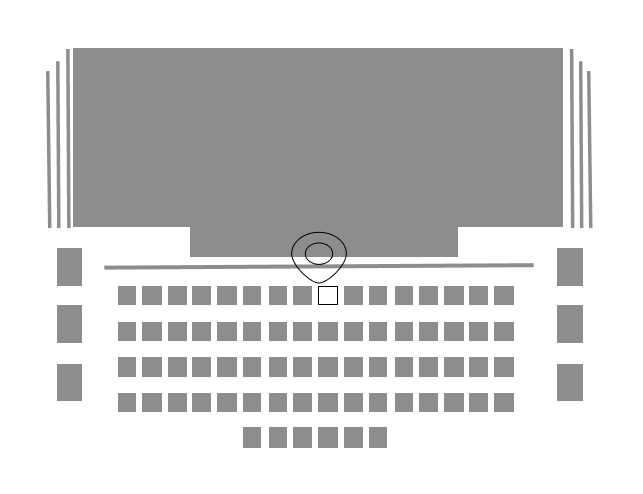
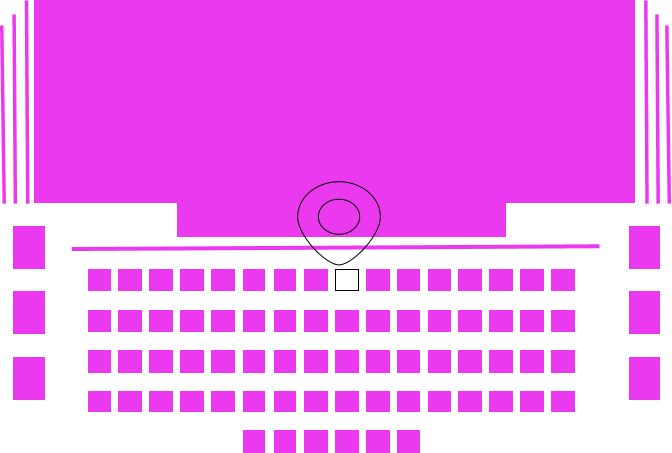
cambios img

diff --git a/src/style.css b/src/style.css
@@ -78,6 +78,15 @@
   transition: background-color 0.3s;
   border: 1px solid rgb(141, 137, 137);
   color: white;
+  position: relative;
+}
+
+.seat .seat-id {
+  position: absolute;
+  top: 50%;
+  left: 50%;
+  transform: translate(-50%, -50%);
+  white-space: nowrap; 
 }
 
 /*Estado disponible*/
@@ -87,7 +96,7 @@
 
 /*Estado no disponible*/
 .seat.unavailable {
-  background-color: #4781FF;
+  background-color: #EB39EF;
   border: 0;
 }
 
@@ -125,7 +134,7 @@
   width: 700px;
   /* Ajuste el ancho según sea necesario */
   height: 200px;
-  background-color: rgb(139, 134, 134);
+  background-color: #EB39EF;
   margin-bottom: 20px;
   border-radius: 1px;
   margin: 60px;
@@ -134,7 +143,7 @@
 
 .line {
   position: absolute;
-  background-color: rgb(139, 134, 134);
+  background-color: #EB39EF;
   width: 5px;
 }
 
@@ -183,7 +192,7 @@
 
 .square_left {
   position: absolute;
-  background-color: rgb(139, 134, 134);
+  background-color: #EB39EF;
   width: 30px;
   height: 30px;
   bottom: -45px;
@@ -192,7 +201,7 @@
 
 .square2_left {
   position: absolute;
-  background-color: rgb(139, 134, 134);
+  background-color: #EB39EF;
   width: 30px;
   height: 30px;
   bottom: -90px;
@@ -201,7 +210,7 @@
 
 .square3_left {
   position: absolute;
-  background-color: rgb(139, 134, 134);
+  background-color: #EB39EF;
   width: 30px;
   height: 30px;
   bottom: -135px;
@@ -211,7 +220,7 @@
 
 .square_right {
   position: absolute;
-  background-color: rgb(139, 134, 134);
+  background-color: #EB39EF;
   width: 30px;
   height: 30px;
   bottom: -45px;
@@ -220,7 +229,7 @@
 
 .square2_right {
   position: absolute;
-  background-color: rgb(139, 134, 134);
+  background-color: #EB39EF;
   width: 30px;
   height: 30px;
   bottom: -90px;
@@ -229,7 +238,7 @@
 
 .square3_right {
   position: absolute;
-  background-color: rgb(139, 134, 134);
+  background-color: #EB39EF;
   width: 30px;
   height: 30px;
   bottom: -135px;
@@ -238,7 +247,7 @@
 
 .base-line {
   position: absolute;
-  background-color: rgb(139, 134, 134);
+  background-color: #EB39EF;
   width: 620px;
   height: 6px;
   bottom: -40px;
@@ -248,7 +257,7 @@
 
 .bottom-rect {
   position: absolute;
-  background-color: rgb(139, 134, 134);
+  background-color: #EB39EF;
   width: 350px;
   height: 50px;
   bottom: -30px;
@@ -285,7 +294,7 @@
 }
 
 .diisnot {
-  background-color: #4781FF;
+  background-color: #EB39EF;
 }
 
 .ocup {
@@ -368,7 +377,7 @@
 .trapecio {
   min-width: 600px;
   height: 260px;
-  background-color: gray;
+  background-color: #EB39EF;
   clip-path: polygon(0% 0%, 100% 0%, 82% 100%, 18% 100%);
   position: relative;
 }
@@ -376,7 +385,7 @@
 .row-flex{
   display: flex;
   justify-content: center;
-  align-items: center;
+  align-items: flex-end;
 }
 
 .seatscenter {
@@ -391,7 +400,7 @@
 /* indice */
 .indice {
   max-width: 400px;
-  border: 1px solid grey;
+  border: 1px solid #EB39EF;
   border-radius: 10px;
 }
 
@@ -418,7 +427,7 @@
 .scenario-square{
   min-width: 500px;
   height: 230px;
-  background-color: gray;
+  background-color: #EB39EF;
   margin: 0px 7px;
 }
 

diff --git a/src/Components/Scenary4/index.js b/src/Components/Scenary4/index.js
@@ -3,10 +3,9 @@ import "../../style.css";
 import Asientos from '../../Components/componentes/Asientos'
 import Symbology from '../componentes/symbology'
 import Header from '../componentes/header'
-import Indice from '../layouts/indice/index'
-import img1 from "../../img/img1.png";
-import img2 from "../../img/img2.png";
-import img3 from "../../img/img3.png";
+import img10 from "../../img/img10.png";
+import img11 from "../../img/img11.png";
+import img12 from "../../img/img12.png";
 
 const Escenario = () => {
   const seatsLeft = [
@@ -30,7 +29,7 @@ const Escenario = () => {
   return (
     <div className="stage-container">
 
-      <div style={{height:"15px", backgroundColor: "#575757", width: "650px" }}></div>
+      <div style={{height:"15px", backgroundColor: "#b023b3", width: "650px" }}></div>
       
       <div class="row-flex">
         <div style={{width: "300px", textAlign: "right"}}>
@@ -77,7 +76,7 @@ const Escenario4 = () => {
             <Escenario/>
           </div>
           <div className="right-column">
-            <Symbology imgDis = {img1} imgNoDist = {img2} imgOcup = {img3}  />
+            <Symbology imgDis = {img10} imgNoDist = {img11} imgOcup = {img12}  />
           </div>
         </div>
       </div>

diff --git a/src/Components/Scenary3/index.js b/src/Components/Scenary3/index.js
@@ -3,10 +3,9 @@ import "../../style.css";
 import Asientos from '../../Components/componentes/Asientos'
 import Symbology from '../componentes/symbology'
 import Header from '../componentes/header'
-import Indice from '../layouts/indice/index'
-import img1 from "../../img/img1.png";
-import img2 from "../../img/img2.png";
-import img3 from "../../img/img3.png";
+import img7 from "../../img/img7.png";
+import img8 from "../../img/img8.png";
+import img9 from "../../img/img9.png";
 
 const Escenario = () => {
   const seatsLeft = [
@@ -30,7 +29,7 @@ const Escenario = () => {
   return (
     <div className="stage-container">
 
-      <div style={{height:"15px", backgroundColor: "#575757", width: "620px" }}></div>
+      <div style={{height:"15px", backgroundColor: "#b023b3", width: "620px" }}></div>
       
       <div class="row-flex">
         <div style={{width: "300px", textAlign: "right"}}>
@@ -77,7 +76,7 @@ const Escenario3 = () => {
             <Escenario/>
           </div>
           <div className="right-column">
-            <Symbology imgDis = {img1} imgNoDist = {img2} imgOcup = {img3}  />
+            <Symbology imgDis = {img7} imgNoDist = {img8} imgOcup = {img9}  />
           </div>
         </div>
       </div>

diff --git a/src/Components/Scenary2/index.js b/src/Components/Scenary2/index.js
@@ -2,9 +2,9 @@ import { Fragment } from "react";
 import Header from "../componentes/header";
 import Escenario2 from "./Esceario2";
 import Symbology from "../componentes/symbology";
-import img1 from "../../img/img1.png";
-import img2 from "../../img/img2.png";
-import img3 from "../../img/img3.png";
+import img4 from "../../img/img4.png";
+import img5 from "../../img/img5.png";
+import img6 from "../../img/img6.png";
 
 const AppScenary2 = () => {
     return (
@@ -16,7 +16,7 @@ const AppScenary2 = () => {
                         <Escenario2 />
                     </div>
                     <div className="right-column">
-                        <Symbology imgDis = {img1} imgNoDist = {img2} imgOcup = {img3}  />
+                        <Symbology imgDis = {img4} imgNoDist = {img5} imgOcup = {img6}  />
                     </div>
                 </div>
             </div>

diff --git a/src/Components/componentes/Asientos.js b/src/Components/componentes/Asientos.js
@@ -1,7 +1,7 @@
 import React, { useState } from "react";
 import "../../style.css";
 
-const Asientos1 = ({ id }) => {
+const Asientos = ({ id }) => {
 
     const [estado, setEstado] = useState(true);
 
@@ -14,10 +14,11 @@ const Asientos1 = ({ id }) => {
             className={`seat ${estado ? 'available' : 'unavailable'}`}
             onClick={handleClick}
         >
-            {id}
+            {/* {id} */}
+            {!estado && <span className="seat-id">{id}</span>}
         </div>
         // <p>Icono de café: <i className="fa-regular fa-user"></i></p>
     );
 }
 
-export default Asientos1;
+export default Asientos;
